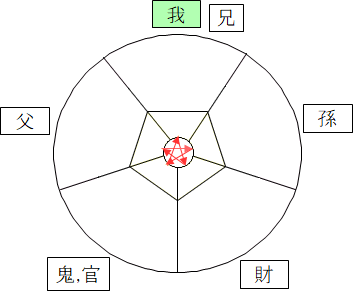
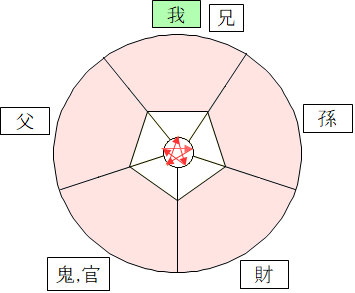
비고 수정, 사주 선택시 격국 2번 출력 수정

diff --git a/WindowsFormsApp1/기본 Form.cs b/WindowsFormsApp1/기본 Form.cs
@@ -3893,17 +3893,17 @@ namespace WindowsFormsApp1
 
         private bool b_trial()
         {
-            DateTime today = DateTime.Now;
-            DateTime expiredate = new DateTime(2025, 1, 1);
+            //DateTime today = DateTime.Now;
+            //DateTime expiredate = new DateTime(2025, 1, 1);
 
-            if (today >= expiredate)
-            {
-                MessageBox.Show("사용기한이 만료되었습니다.");
-                return false;
-            }
-            else return true;
+            //if (today >= expiredate)
+            //{
+            //    MessageBox.Show("사용기한이 만료되었습니다.");
+            //    return false;
+            //}
+            //else return true;
 
-            //return true;
+            return true;
         }
 
         public bool getdatefromsaju(int start_year, out DateTime birthdate )
@@ -4082,7 +4082,36 @@ namespace WindowsFormsApp1
                         dateTimePicker1.Value = real_dt;
                         radioButton1.Checked = true;
                         groupBox6.Visible = false;
-                        gimundungab.PerformClick();
+                        //gimundungab.PerformClick();
+                        solar_dt = real_dt;
+                        ToLunarDate(real_dt, out ly, out lunar_year, out lunar_month, out lunar_day); // 양력->음력 변환
+                        if (ly == false)
+                            label14.Text = "음력 " + lunar_year + "년 " + lunar_month.ToString("00") + "월 " + lunar_day.ToString("00") + "일 " + dt.Hour.ToString("00") + ":" + dt.Minute.ToString("00");
+                        else
+                            label14.Text = "음력 " + lunar_year + "년 " + lunar_month.ToString("00") + "월(윤달) " + lunar_day.ToString("00") + "일 " + dt.Hour.ToString() + ":" + dt.Minute.ToString("00"); ;
+                        
+                        real_dt = dateAdjust(solar_dt);  // 서머타임 동경시 등 보정
+
+                        // 24절기 계산
+                        terms = get24Terms(real_dt);
+
+                        //양둔, 음둔 계산
+                        direction = getDirection(real_dt, terms);
+
+                        //년월일시 간지 계산 
+                        ToSajuYear(real_dt, terms[2], out sjGanzi[0, 0], out sjGanzi[0, 1]);
+                        ToSajuMonth(real_dt, terms, sjGanzi[0, 0], out sjGanzi[1, 0], out sjGanzi[1, 1]);
+                        ToSajuDay(real_dt, out sjGanzi[2, 0], out sjGanzi[2, 1]);
+                        ToSajuTime(real_dt, sjGanzi[2, 0], out sjGanzi[3, 0], out sjGanzi[3, 1]);
+
+                        comboBox4.SelectedIndex = sjGanzi[0, 0] - 1;
+                        comboBox8.SelectedIndex = sjGanzi[0, 1] - 1;
+                        comboBox3.SelectedIndex = sjGanzi[1, 0] - 1;
+                        comboBox7.SelectedIndex = sjGanzi[1, 1] - 1;
+                        comboBox2.SelectedIndex = sjGanzi[2, 0] - 1;
+                        comboBox6.SelectedIndex = sjGanzi[2, 1] - 1;
+                        comboBox1.SelectedIndex = sjGanzi[3, 0] - 1;
+                        comboBox5.SelectedIndex = sjGanzi[3, 1] - 1;
                     }
 
                     //년월일시 간지 표시

diff --git a/WindowsFormsApp1/선택 Form.cs b/WindowsFormsApp1/선택 Form.cs
@@ -41,7 +41,7 @@ namespace WindowsFormsApp1
             listView1.Columns.Add(listview_columnTitle[1], -2, HorizontalAlignment.Center);
             listView1.Columns.Add(listview_columnTitle[2], -2, HorizontalAlignment.Center);
             listView1.Columns.Add(listview_columnTitle[3], -2, HorizontalAlignment.Center);
-            listView1.Columns.Add(listview_columnTitle[4], -2, HorizontalAlignment.Center);
+            listView1.Columns.Add(listview_columnTitle[4], -2, HorizontalAlignment.Left);
         }
 
         public Form2(Form1 form)

diff --git a/WindowsFormsApp1/기본 Form.Designer.cs b/WindowsFormsApp1/기본 Form.Designer.cs
@@ -1467,7 +1467,7 @@
             // 
             // pictureBox3
             // 
-            this.pictureBox3.Image = global::GimunMyungRi.Properties.Resources.tongi_raw;
+            this.pictureBox3.Image = global::GimunMyungRi.Properties.Resources.tongi;
             this.pictureBox3.InitialImage = null;
             this.pictureBox3.Location = new System.Drawing.Point(11, 333);
             this.pictureBox3.Name = "pictureBox3";

diff --git a/WindowsFormsApp1/신수운 Form.Designer.cs b/WindowsFormsApp1/신수운 Form.Designer.cs
@@ -906,7 +906,7 @@
             // 
             // pictureBox3
             // 
-            this.pictureBox3.Image = global::GimunMyungRi.Properties.Resources.tongi_raw;
+            this.pictureBox3.Image = global::GimunMyungRi.Properties.Resources.tongi;
             this.pictureBox3.InitialImage = null;
             this.pictureBox3.Location = new System.Drawing.Point(13, 361);
             this.pictureBox3.Name = "pictureBox3";
